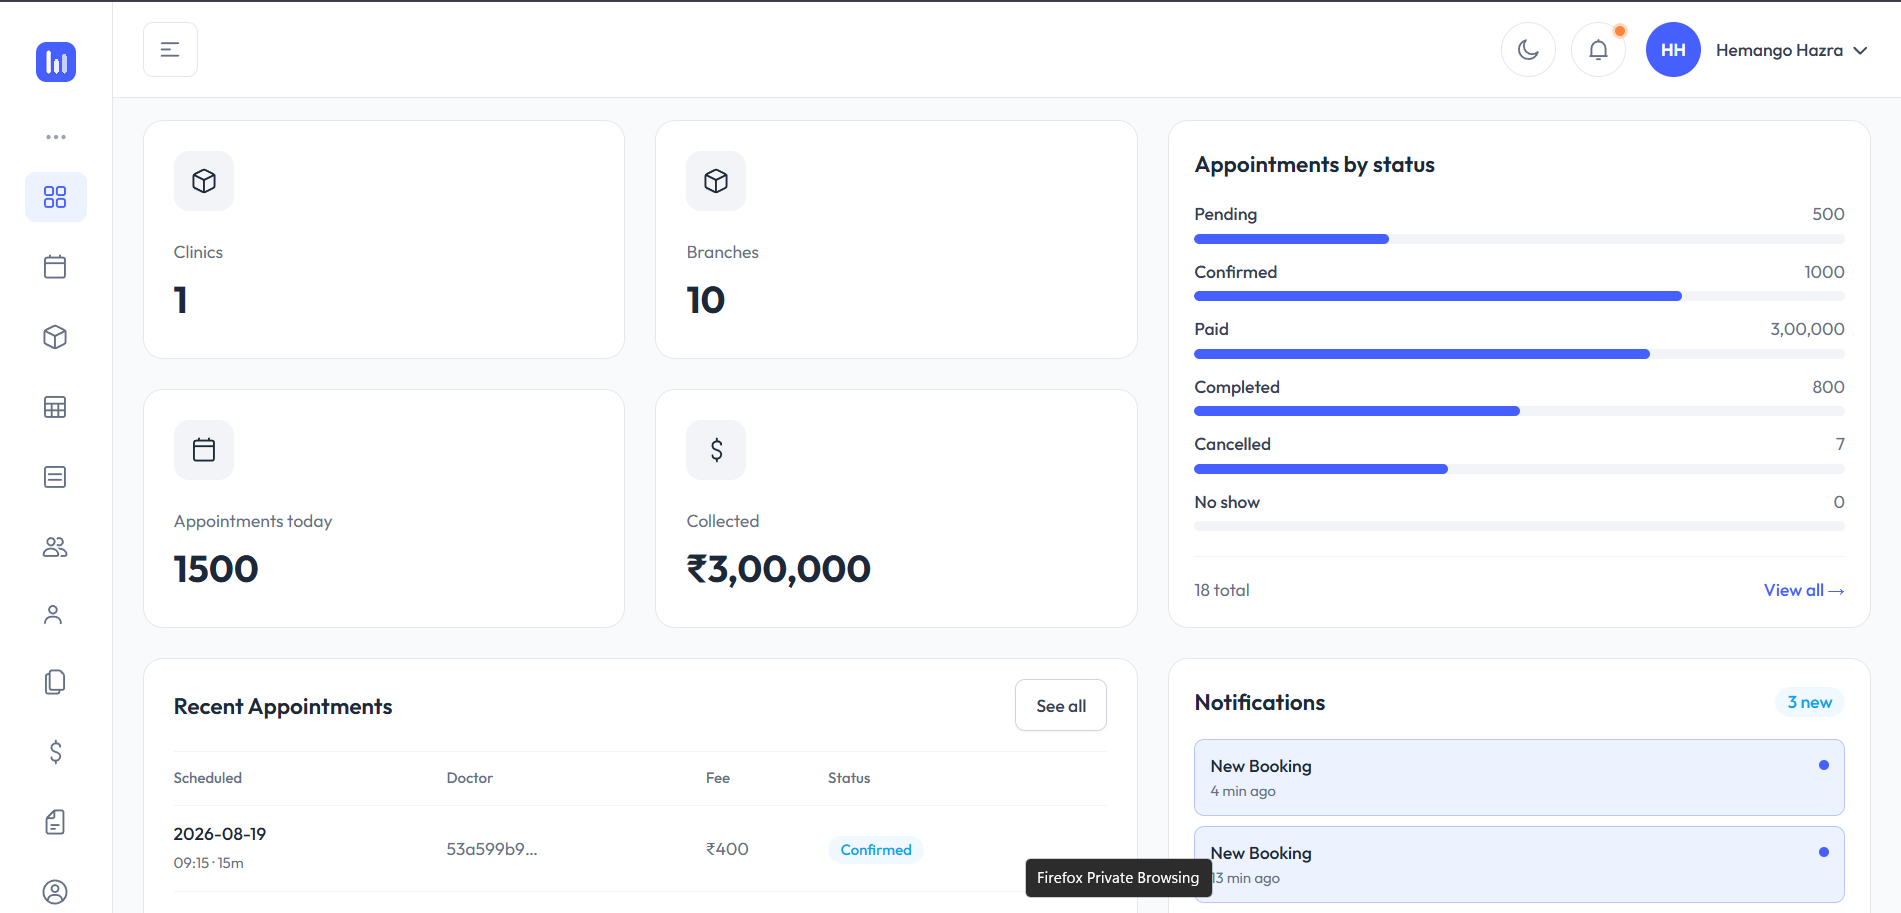
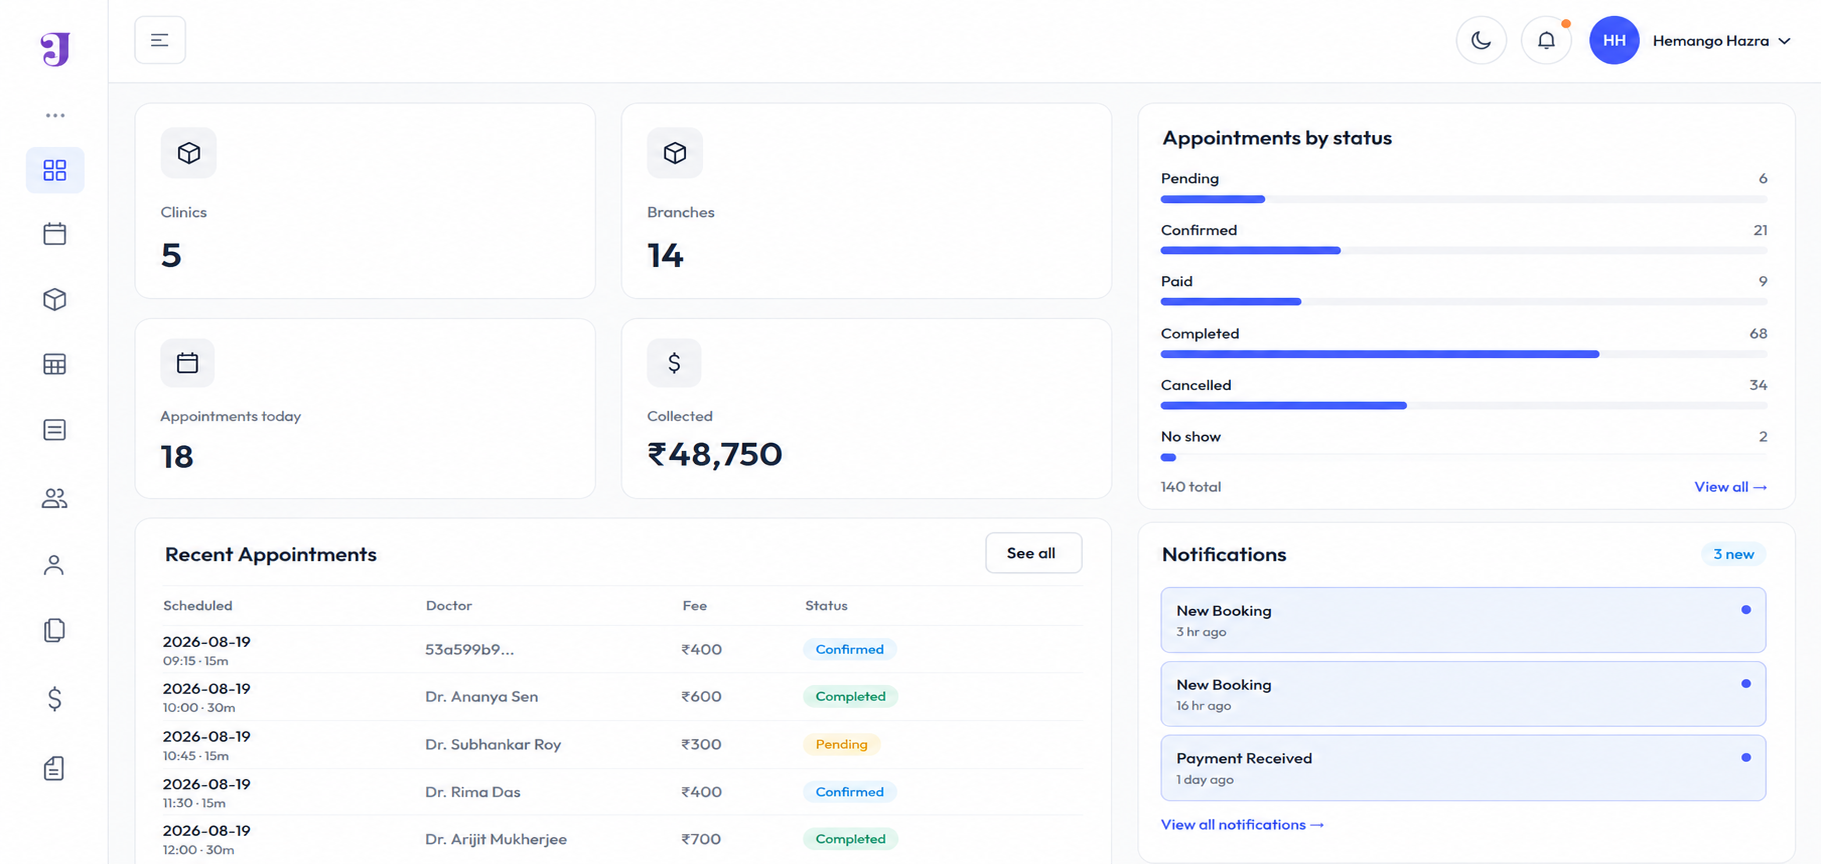
update

diff --git a/src/app/(marketing)/page.tsx b/src/app/(marketing)/page.tsx
@@ -6,7 +6,7 @@ import { LandingFAQ } from "./LandingFAQ";
 import { LandingSwiper } from "./LandingSwiper";
 
 export const metadata: Metadata = {
-  title: "Medinexa - Better Care, Better Life",
+  title: "Jido Healthcare - Better Care, Better Life",
   description:
     "Connect patients with top verified doctors and clinics, while empowering medical facilities with unified branch controls, sequential queue bookings, and doctor schedule management.",
 };
@@ -19,10 +19,11 @@ export default function LandingPage() {
         <div className={styles.navContainer}>
           <Link href="/" className={styles.logo}>
             <img
-              src="/_next/image?url=%2Fimages%2Flogo%2Flogo-dark.png&w=640&q=75"
-              alt="Medinexa"
-              width={40}
-              height={40}
+              src="/_next/image?url=%2Fimages%2Flogo%2Flogo.png&w=640&q=75"
+              alt="Jido Healthcare"
+              width={160}
+              height={78}
+              className={styles.logoImage}
             />
           </Link>
           <nav className={styles.navLinks}>
@@ -78,7 +79,7 @@ export default function LandingPage() {
             <div className={styles.laptopFrame}>
               <img
                 src="/images/landing/Screenshot_1.png"
-                alt="Medinexa Clinic Portal Dashboard"
+                alt="Jido Healthcare Clinic Portal Dashboard"
               />
             </div>
             <div className={styles.laptopBaseBar}></div>
@@ -87,7 +88,7 @@ export default function LandingPage() {
           <div className={styles.floatingPhoneWrap}>
             <img
               src="/images/landing/mobile_ss1.jpg"
-              alt="Medinexa Care Mobile App"
+              alt="Jido Healthcare Mobile App"
             />
           </div>
         </div>
@@ -95,7 +96,7 @@ export default function LandingPage() {
 
       {/* Key Features Grid */}
       <section className={styles.sectionHead} id="features">
-        <h2>Why You Should Choose Medinexa Care</h2>
+        <h2>Why You Should Choose Jido Healthcare</h2>
         <p>Modern tools designed to deliver smooth consultation and clinic management.</p>
       </section>
 
@@ -163,7 +164,7 @@ export default function LandingPage() {
         <div className={styles.stepsContent}>
           <h2>Very Easy To Use Just Following 3 Steps</h2>
           <p className={styles.subDesc}>
-            Get started with Medinexa Care in three simple steps. Our intuitive
+            Get started with Jido Healthcare in three simple steps. Our intuitive
             platform makes healthcare accessible to everyone.
           </p>
 
@@ -171,7 +172,7 @@ export default function LandingPage() {
             <div className={styles.stepNumberBox}>01</div>
             <div className={styles.stepText}>
               <h4>Install This App</h4>
-              <p>Download Medinexa Care from the App Store or Google Play and create your account in seconds.</p>
+              <p>Download Jido Healthcare from the App Store or Google Play and create your account in seconds.</p>
             </div>
           </div>
 
@@ -197,7 +198,7 @@ export default function LandingPage() {
       <section className={styles.faqSection} id="faq">
         <div className={styles.sectionHead}>
           <h2>Frequently Asked Questions</h2>
-          <p>Have questions? We&apos;ve got answers to help you navigate Medinexa Care effortlessly.</p>
+          <p>Have questions? We&apos;ve got answers to help you navigate Jido Healthcare effortlessly.</p>
         </div>
 
         <LandingFAQ />
@@ -236,10 +237,11 @@ export default function LandingPage() {
           <div className={styles.footerCol}>
             <Link href="/" className={styles.logo} style={{ marginBottom: 12, display: "inline-flex" }}>
               <img
-                src="/_next/image?url=%2Fimages%2Flogo%2Flogo-dark.png&w=640&q=75"
-                alt="Medinexa"
-                width={40}
-                height={40}
+                src="/_next/image?url=%2Fimages%2Flogo%2Flogo.png&w=640&q=75"
+                alt="Jido Healthcare"
+                width={160}
+                height={78}
+                className={styles.logoImage}
               />
             </Link>
             <p style={{ fontSize: 13, color: "var(--text-muted)", lineHeight: 1.6 }}>
@@ -269,11 +271,11 @@ export default function LandingPage() {
             <h4>Contact</h4>
             <ul>
               <li>
-                <a href="mailto:support@medinexa.com">
+                <a href="mailto:support@jidohealthcare.com">
                   <svg width="14" height="14" viewBox="0 0 24 24" fill="currentColor" style={{ marginRight: 6 }}>
                     <path d="M20 4H4c-1.1 0-1.99.9-1.99 2L2 18c0 1.1.9 2 2 2h16c1.1 0 2-.9 2-2V6c0-1.1-.9-2-2-2zm0 4l-8 5-8-5V6l8 5 8-5v2z"/>
                   </svg>
-                  support@medinexa.com
+                  support@jidohealthcare.com
                 </a>
               </li>
               <li>
@@ -281,7 +283,7 @@ export default function LandingPage() {
                   <svg width="14" height="14" viewBox="0 0 24 24" fill="currentColor" style={{ marginRight: 6 }}>
                     <path d="M11.99 2C6.47 2 2 6.48 2 12s4.47 10 9.99 10C17.52 22 22 17.52 22 12S17.52 2 11.99 2zm6.93 6h-2.95c-.32-1.25-.78-2.45-1.38-3.56 1.84.63 3.37 1.91 4.33 3.56zM12 4.04c.83 1.2 1.48 2.53 1.91 3.96h-3.82c.43-1.43 1.08-2.76 1.91-3.96zM4.26 14C4.1 13.36 4 12.69 4 12s.1-1.36.26-2h3.38c-.08.66-.14 1.32-.14 2 0 .68.06 1.34.14 2H4.26zm.82 2h2.95c.32 1.25.78 2.45 1.38 3.56-1.84-.63-3.37-1.9-4.33-3.56zm2.95-8H5.08c.96-1.66 2.49-2.93 4.33-3.56C8.81 5.55 8.35 6.75 8.03 8zM12 19.96c-.83-1.2-1.48-2.53-1.91-3.96h3.82c-.43 1.43-1.08 2.76-1.91 3.96zM14.34 14H9.66c-.09-.66-.16-1.32-.16-2 0-.68.07-1.35.16-2h4.68c.09.65.16 1.32.16 2 0 .68-.07 1.34-.16 2zm.25 5.56c.6-1.11 1.06-2.31 1.38-3.56h2.95c-.96 1.65-2.49 2.93-4.33 3.56zM16.36 14c.08-.66.14-1.32.14-2 0-.68-.06-1.34-.14-2h3.38c.16.64.26 1.31.26 2s-.1 1.36-.26 2h-3.38z"/>
                   </svg>
-                  healthcare.medinexa.com
+                  healthcare.jidohealthcare.com
                 </a>
               </li>
               <li>
@@ -297,7 +299,7 @@ export default function LandingPage() {
         </div>
 
         <div className={styles.footerBottom}>
-          &copy; 2026 Medinexa. All rights reserved. Better Care, Better Life.
+          &copy; 2026 Jido Healthcare. All rights reserved. Better Care, Better Life.
         </div>
       </footer>
     </div>

diff --git a/src/app/(marketing)/LandingFAQ.tsx b/src/app/(marketing)/LandingFAQ.tsx
@@ -17,7 +17,7 @@ const faqData = [
   {
     question: "Can clinics manage multiple branches and doctors?",
     answer:
-      "Yes! The Medinexa Clinic Portal allows clinics to switch between branches, configure fixed or sequential booking queues, invite doctors, and update schedules in real time.",
+      "Yes! The Jido Healthcare Clinic Portal allows clinics to switch between branches, configure fixed or sequential booking queues, invite doctors, and update schedules in real time.",
   },
   {
     question: "Is online payment mandatory?",

diff --git a/src/layout/AppSidebar.tsx b/src/layout/AppSidebar.tsx
@@ -387,7 +387,7 @@ const AppSidebar: React.FC = () => {
             </>
           ) : (
             <Image
-              src="/images/logo/logo-icon.svg"
+              src="/icon.png"
               alt="Logo"
               width={32}
               height={32}
